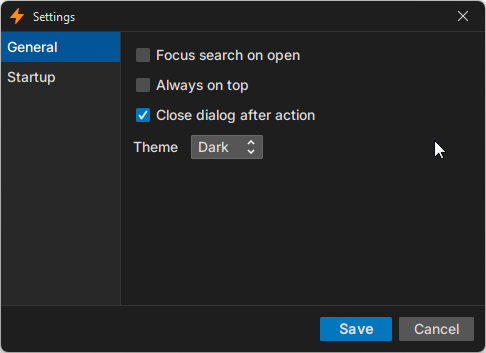
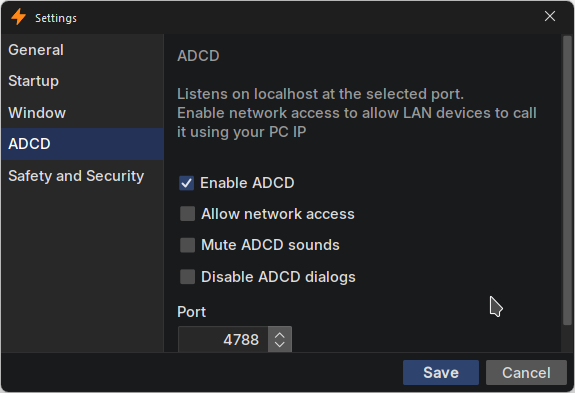
Updated the md doc

diff --git a/README.md b/README.md
@@ -9,9 +9,9 @@ Run any command — CLI, script, `.exe`, or system action — from one simple, c
 📏 Small footprint – final jar around `50MB`, easy to download and run.
 
 # 📷Action Desk Screenshots
-| Action Desk                          | Tray Icon Integration                          | Settings UI                                   |
-|--------------------------------------|------------------------------------------------|-----------------------------------------------|
-| ![Alt1](screenshots/action_desk.png) | ![Alt2](screenshots/action_desk_tray_icon.png) | ![Alt3](screenshots/action_desk_settings.png) |
+| Action Desk                          | Action Scheduling                               | Settings UI                                   |
+|--------------------------------------|-------------------------------------------------|-----------------------------------------------|
+| ![Alt1](screenshots/action_desk.png) | ![Alt2](screenshots/action_desk_scheduling.png) | ![Alt3](screenshots/action_desk_settings.png) |
 
 
 # 🚀 Getting Started